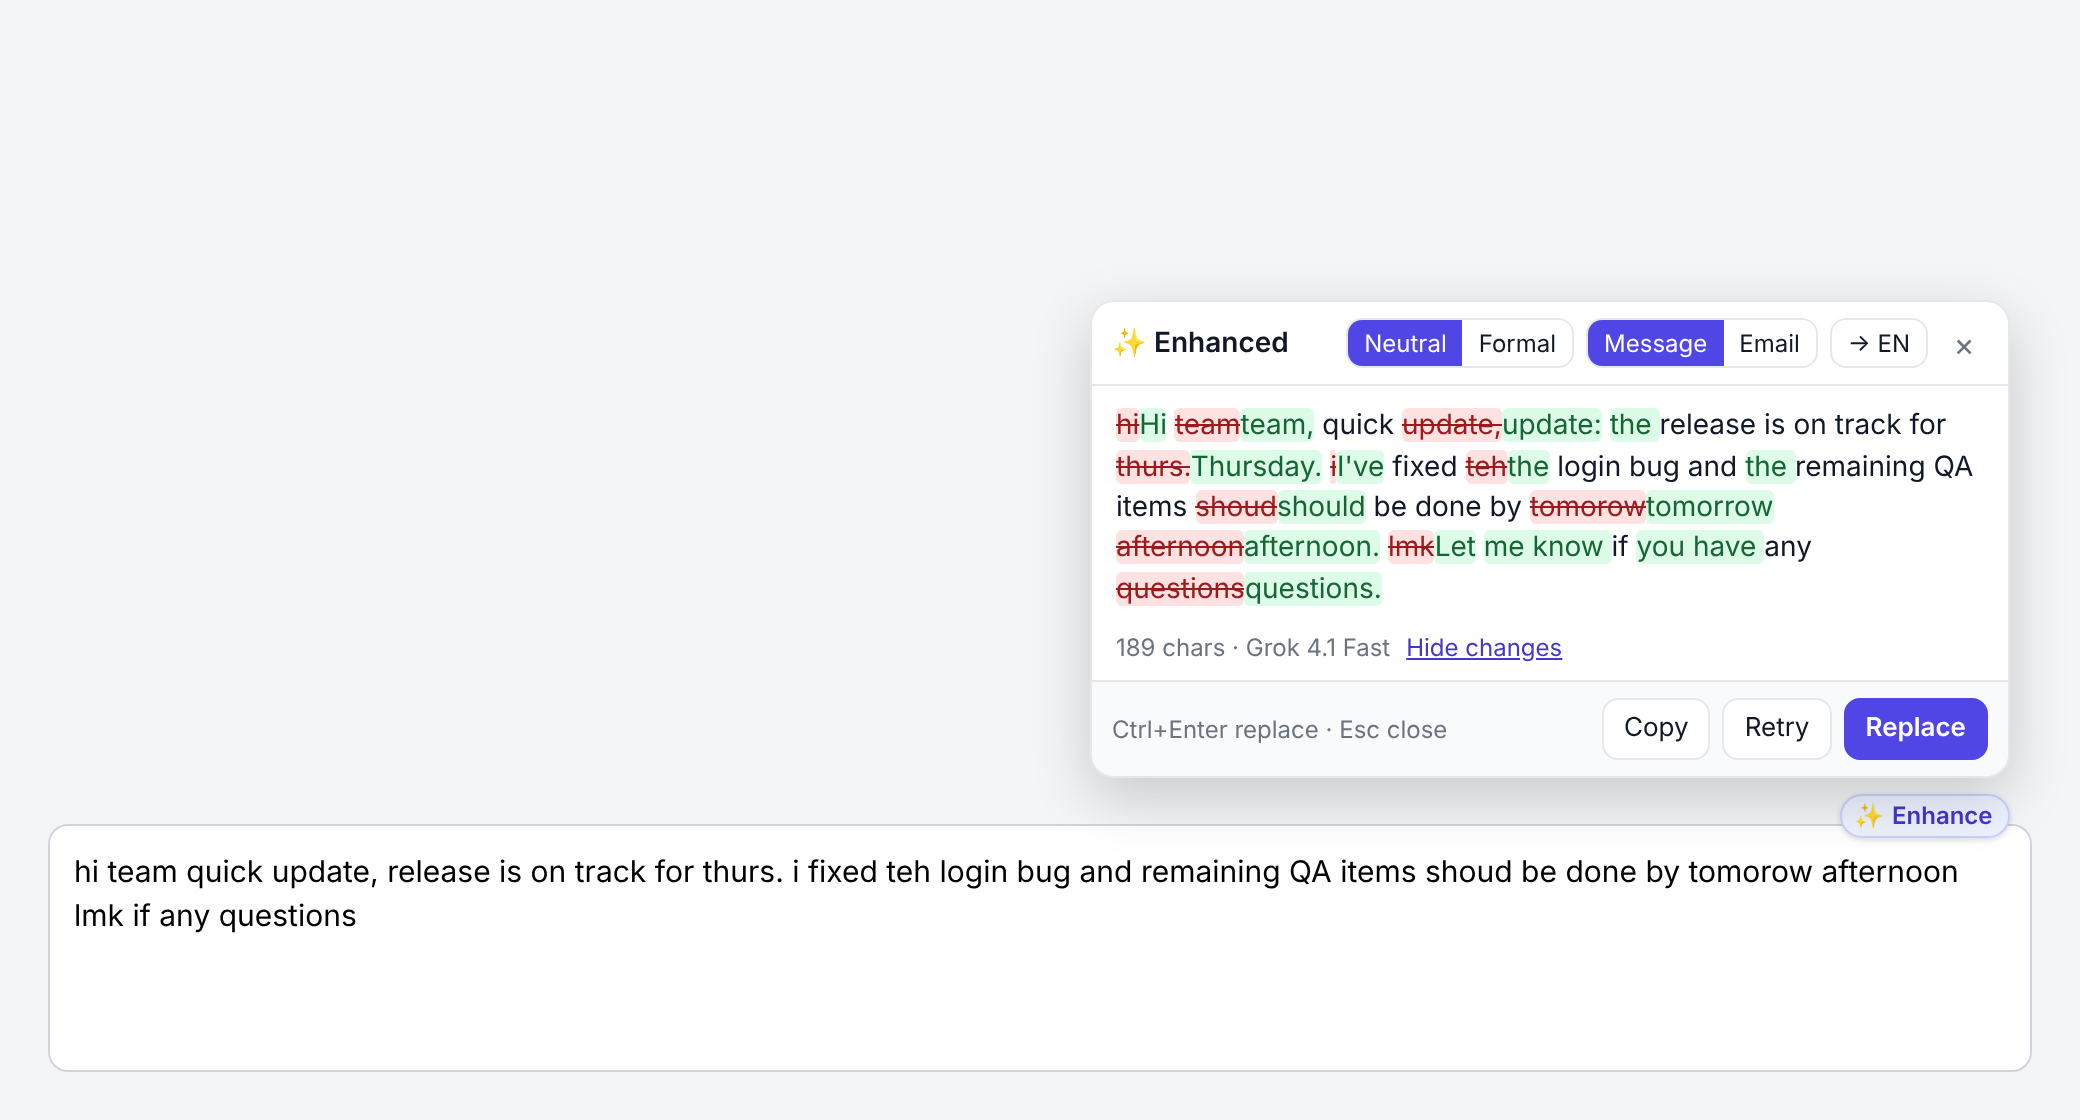
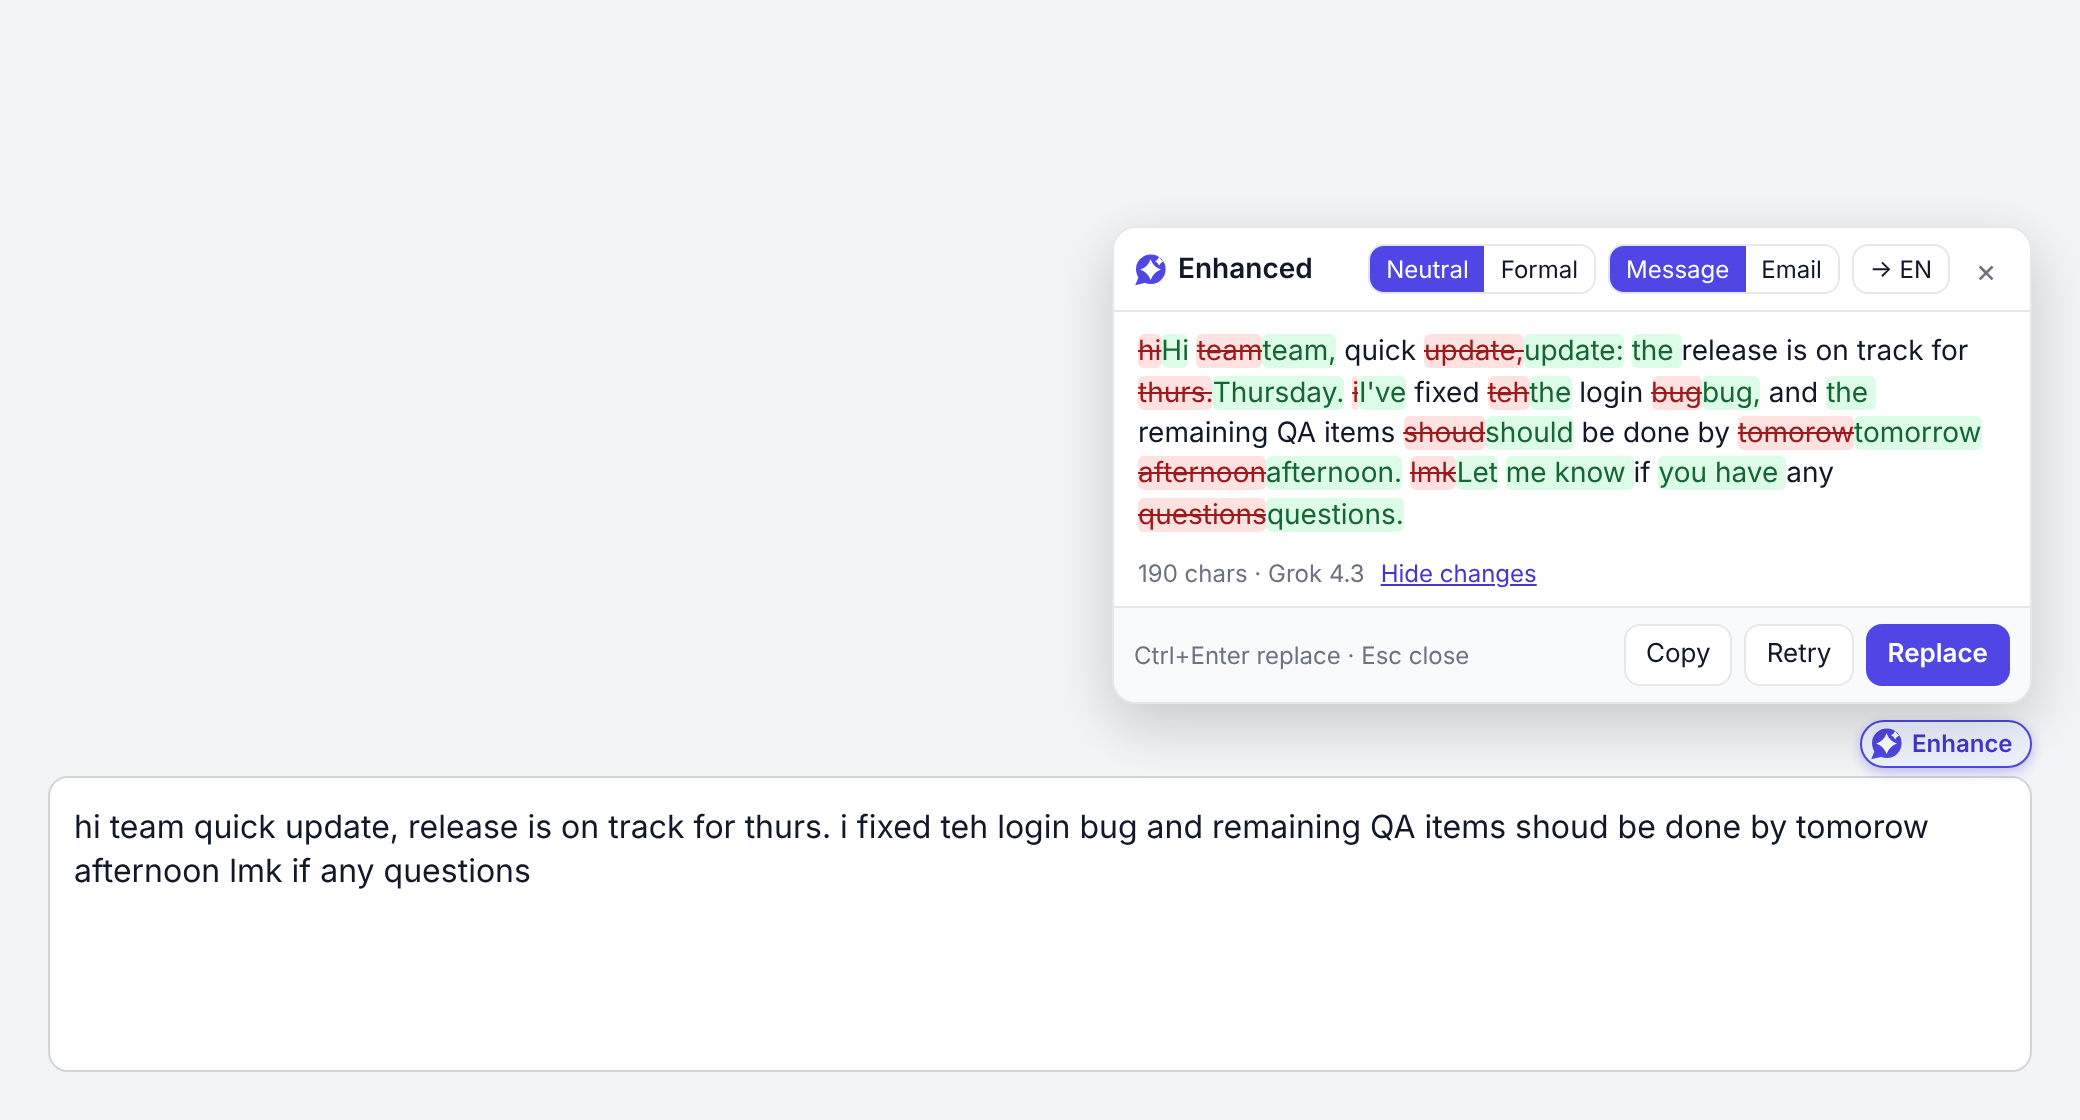
fix: keep the preview clear of the Enhance button when it grows
The preview was placed before its status line settled and then grew about 18 px down over the pill. It now moves whenever its height changes.

Changed region(s): [[0.0312, 0.2188, 1.0, 0.8438]]

diff --git a/src/scripts/content.js b/src/scripts/content.js
@@ -524,6 +524,9 @@
     });
 
     ui = { host, root, pill, chip, notice, popover };
+    // The popover hangs above the field by its bottom edge, so it must move whenever its height
+    // changes (status line, warnings, errors), not only when the text streams in.
+    new ResizeObserver(() => positionPopover()).observe(popover.root);
     return ui;
   }
 
